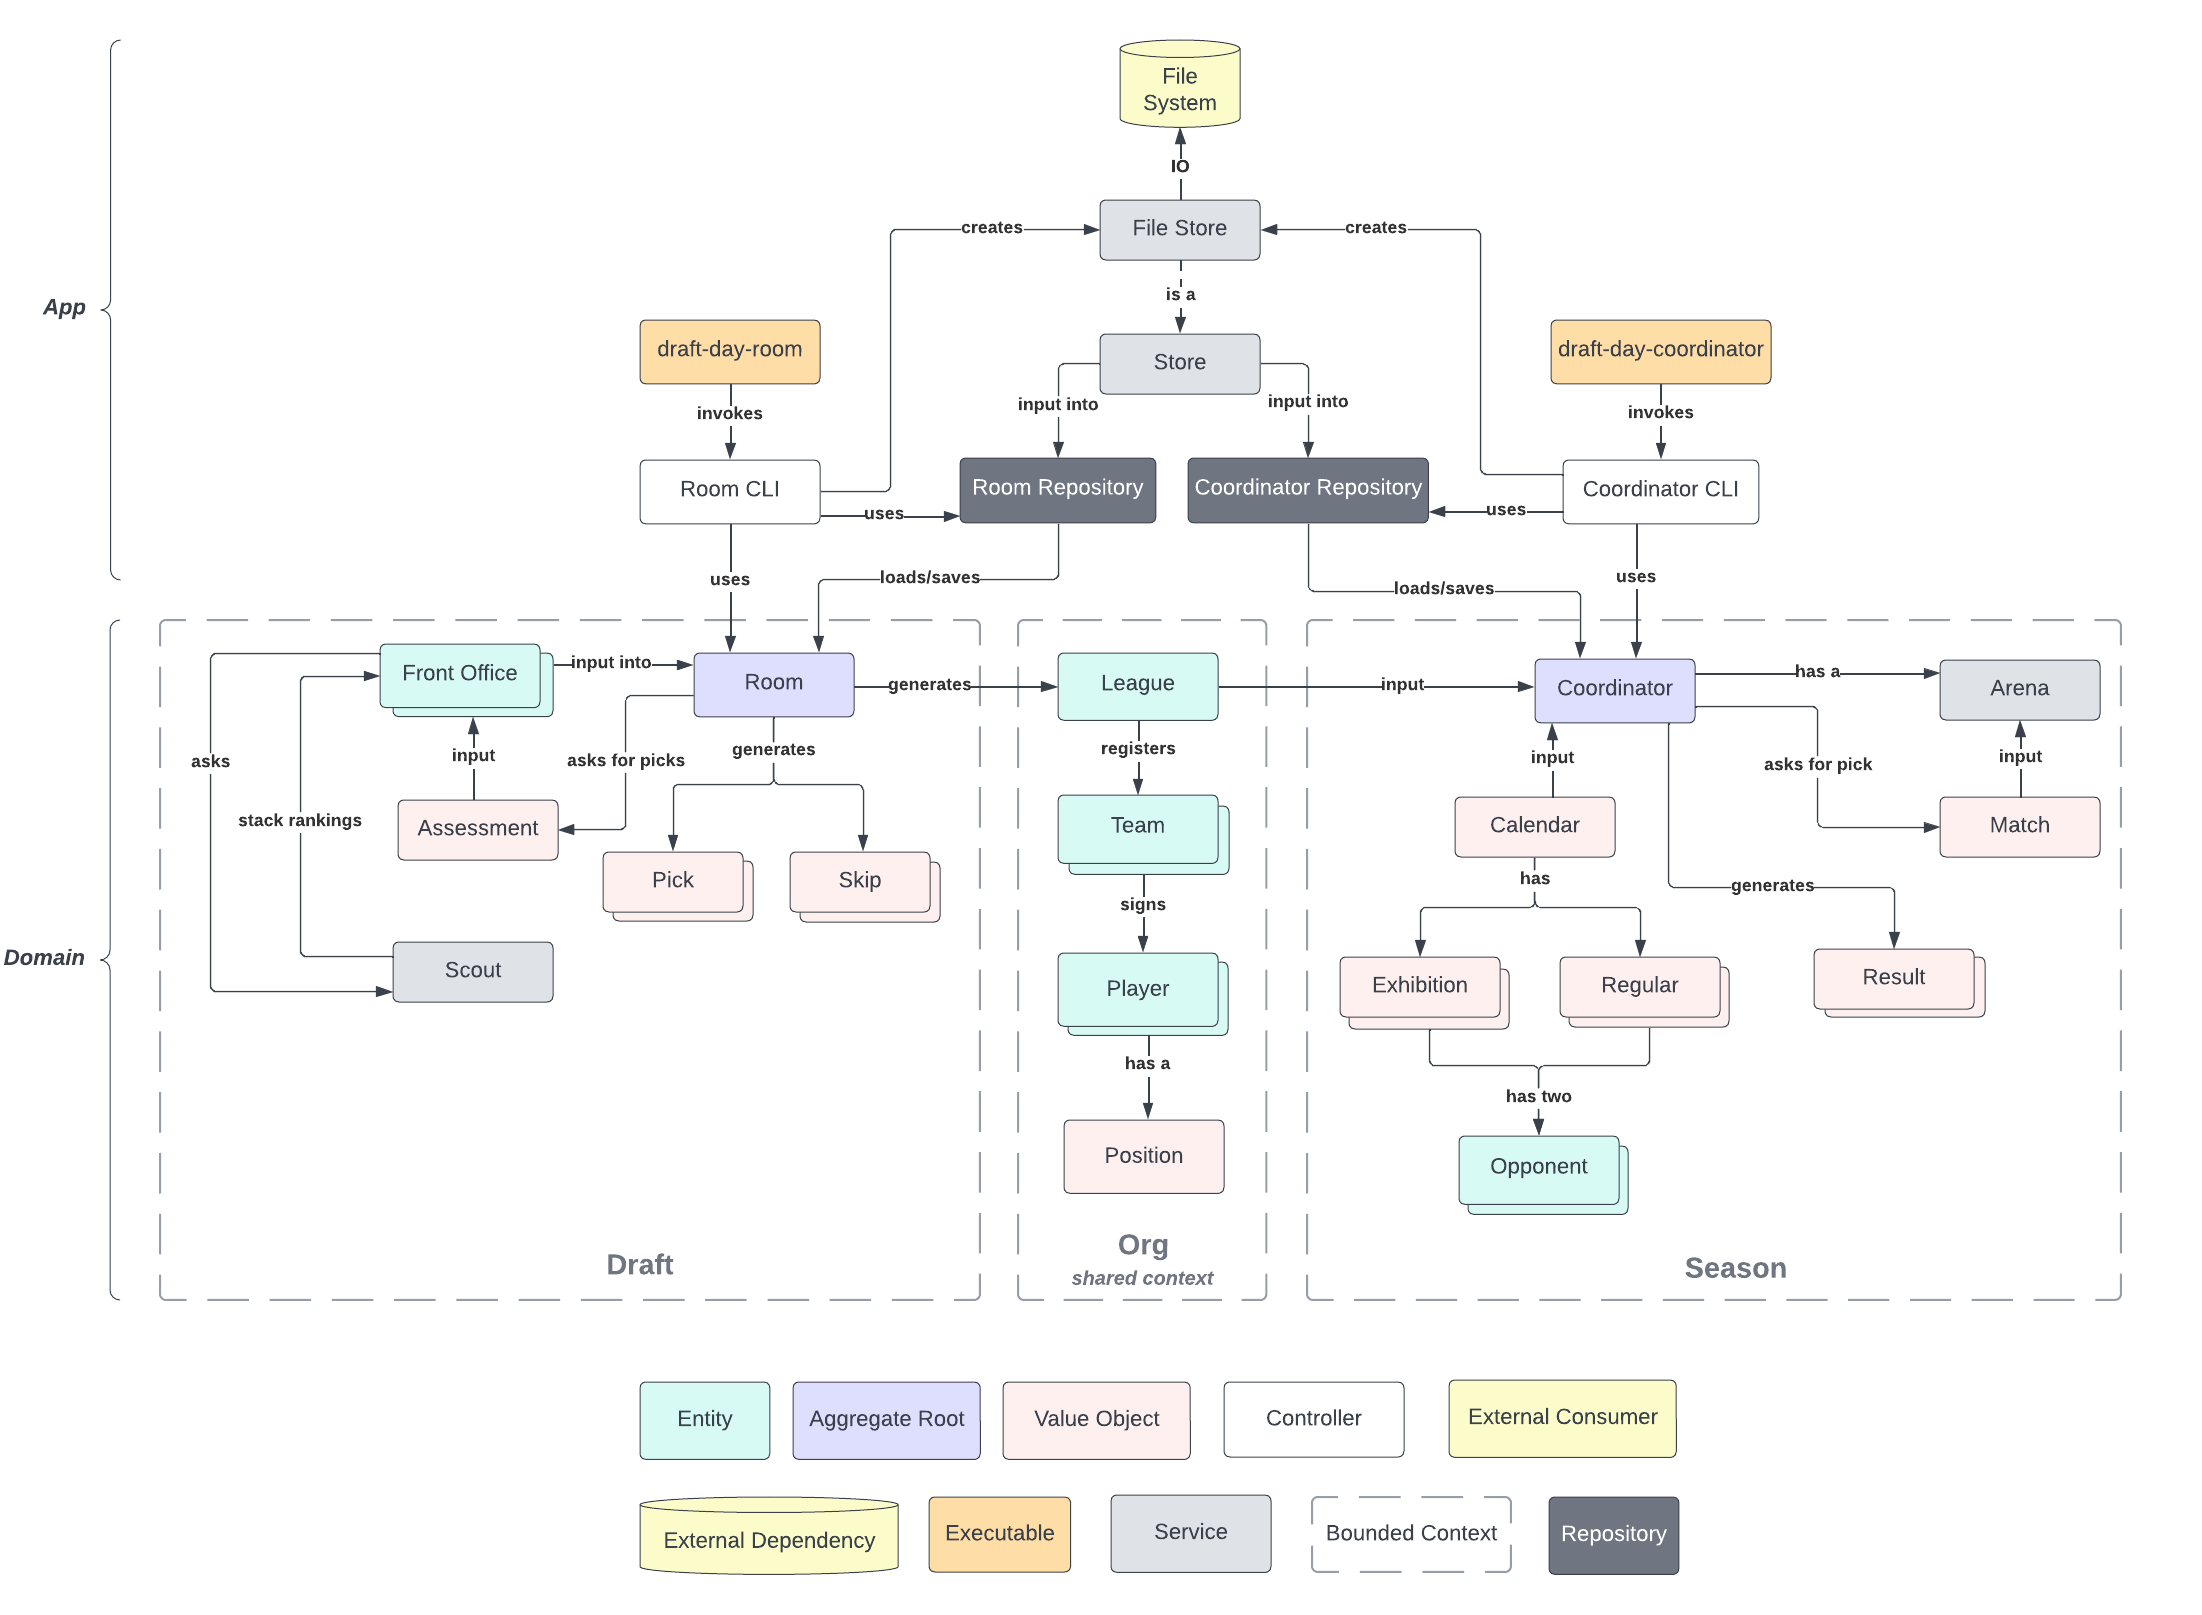
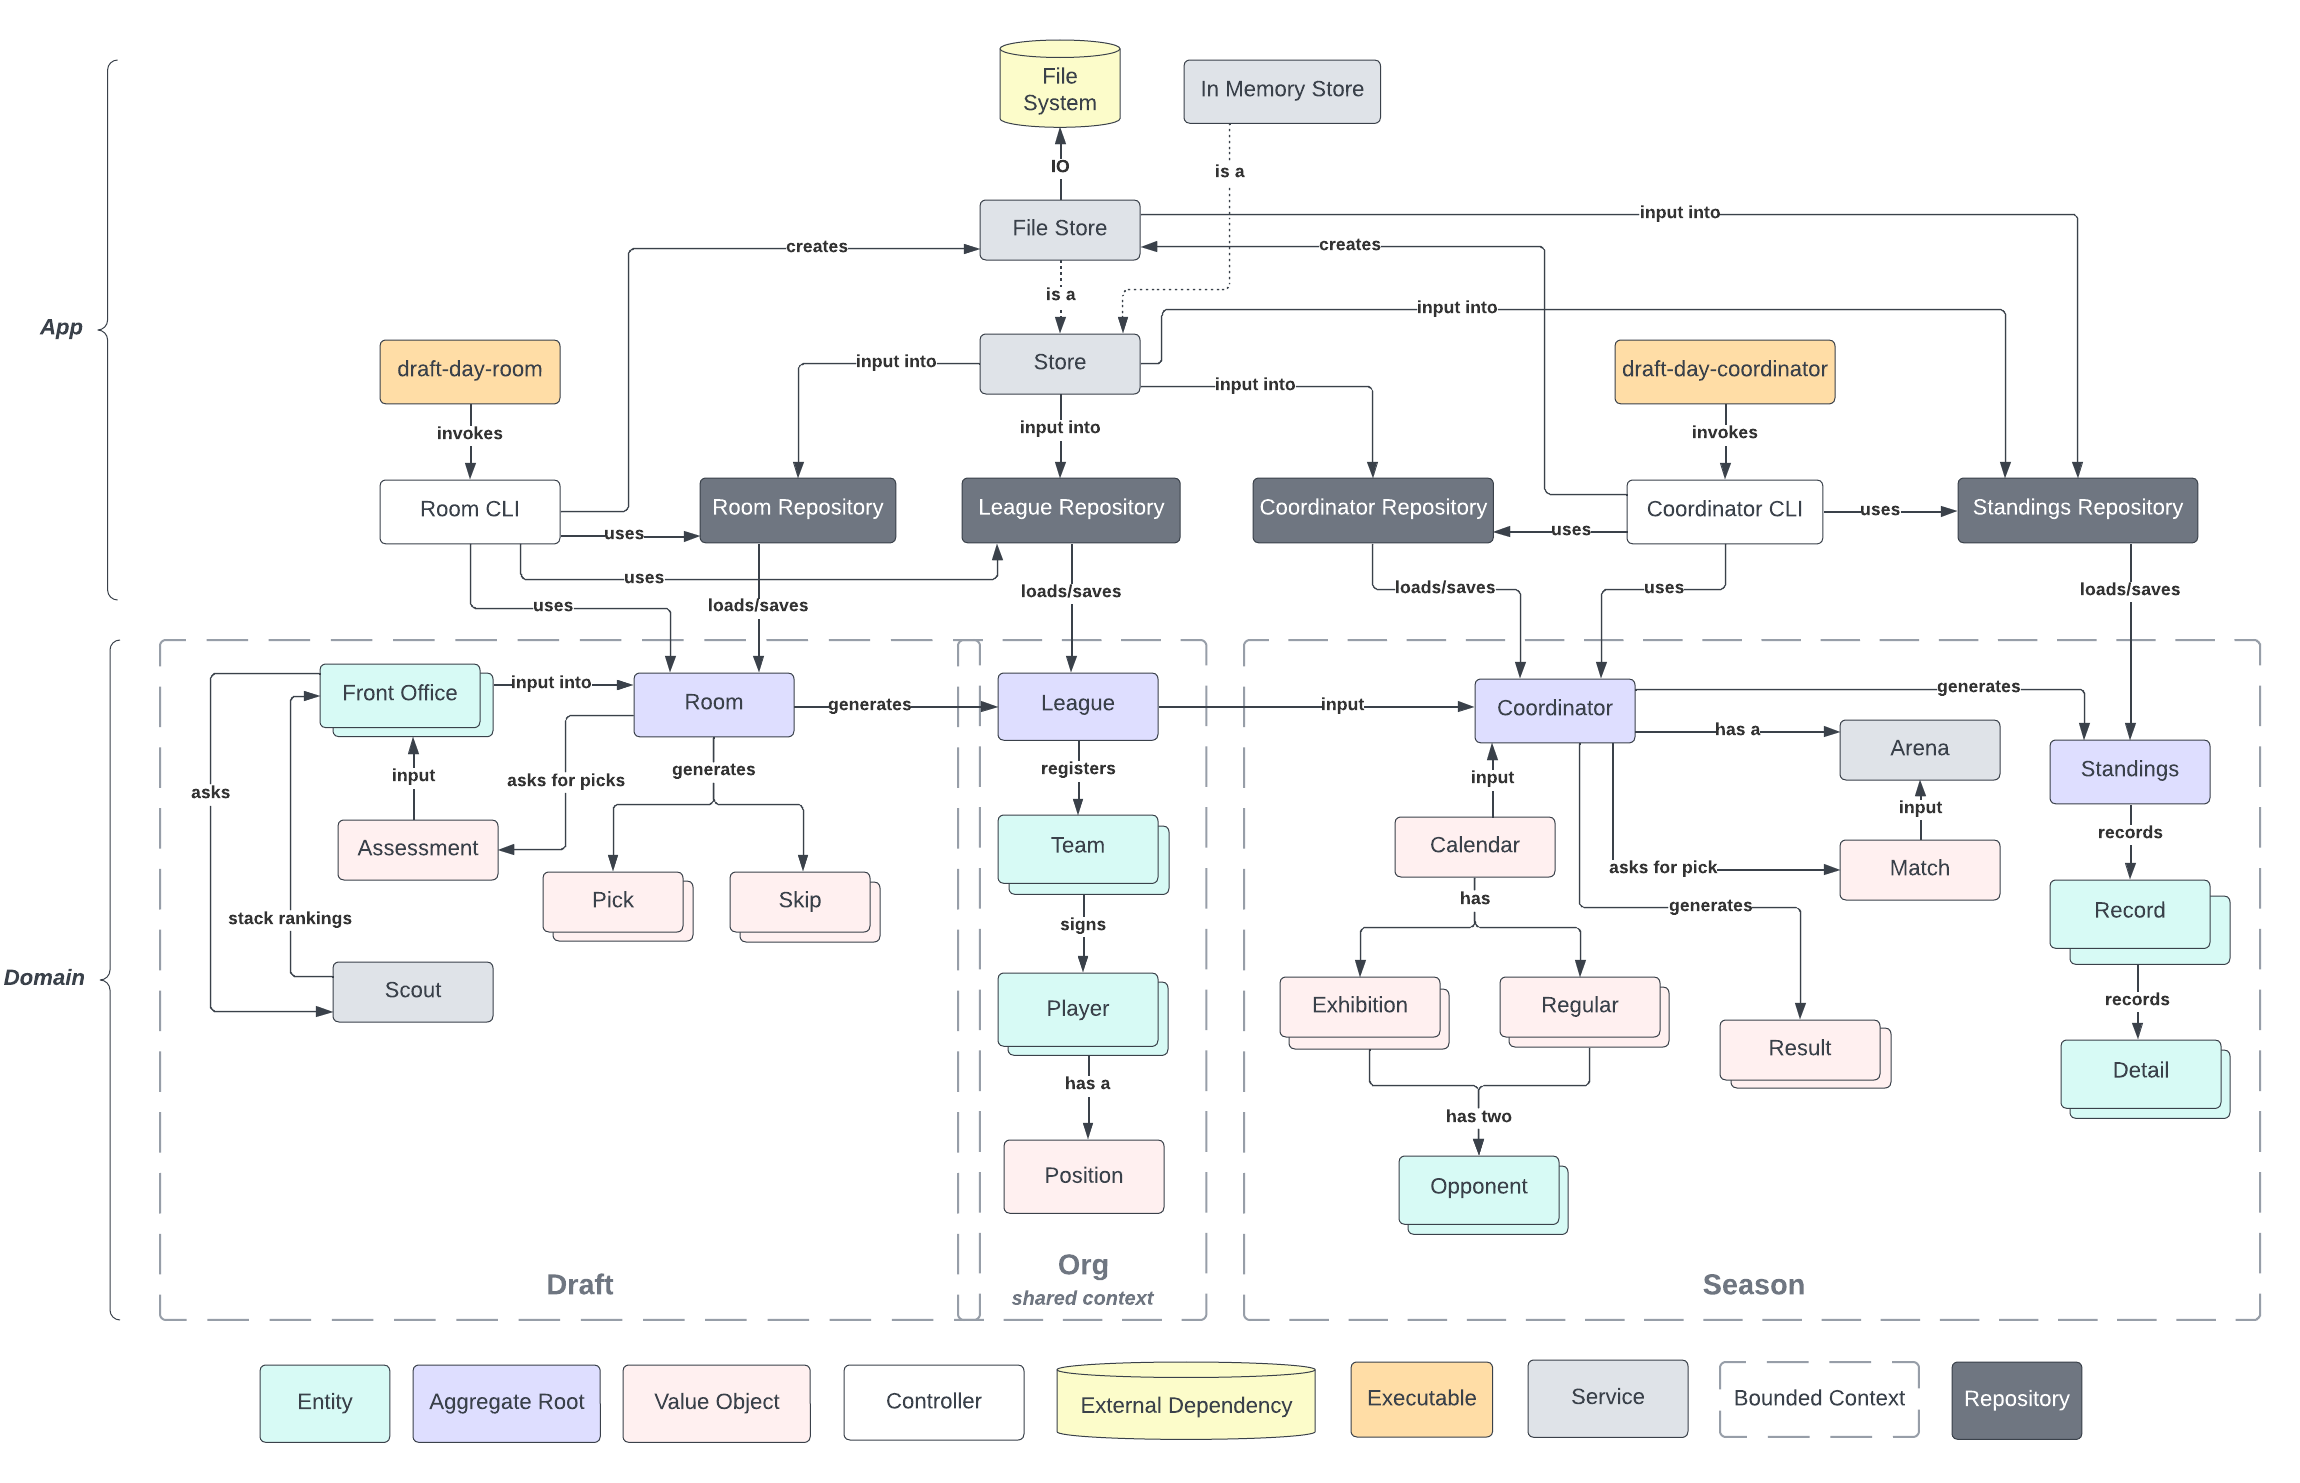
Update docs

diff --git a/lib/basketball/version.rb b/lib/basketball/version.rb
@@ -1,5 +1,5 @@
 # frozen_string_literal: true
 
 module Basketball
-  VERSION = '0.0.9'
+  VERSION = '0.0.10'
 end

diff --git a/README.md b/README.md
@@ -20,9 +20,11 @@ Element      | Description
 **Draft** | Bounded context (sub-module) dealing with running a round-robin player draft for teams.
 **Exhibition** | Pre-season game which has no impact to team record.
 **External Dependency** | Some outside system which this library or portions of this library are dependent on.
+**File Store** | Implements a store that can interact with the underlying File System.
 **File System** | Local operating system that the CLI will use for persistence.
 **Front Office** | Identifiable as a team, contains logic for how to auto-pick draft selections.  Meant to be subclassed and extended to include more intricate player selection logic as the base will simply randomly select a player.
 **Game** | Matches up a date with two teams (home and away) to represent a coordinatord match-up.
+**League Repository** | Understands how to save and load League objects from JSON files on disk.
 **League** | Describes a league in terms of structure composed of teams and players.
 **Match** | When the Coordinator needs an Arena instance to select a game winner, it will send the Arena a Match. A match is Game but also includes the active roster (players) for both teams that will participate in the game.
 **Org** | Bounded context (sub-module) dealing with overall organizational structure of a sports assocation.
@@ -36,6 +38,7 @@ Element      | Description
 **Scout** | Knows how to stack rank lists of players.
 **Season** | Bounded context (sub-module) dealing with calendar and matchup generation.
 **Skip** | Result event emitted when a front office decides to skip a round.
+**Store** | Interface for the underlying Repository persistence layer.  While a Document Repository is mainly responsible for serialization/de-serialization, the store actually knows how to read/write the data.
 **Team Group** | Set of rosters that together form a cohesive league.
 **Team** | Member of a league and signs players.  Has games assigned and played.
 
